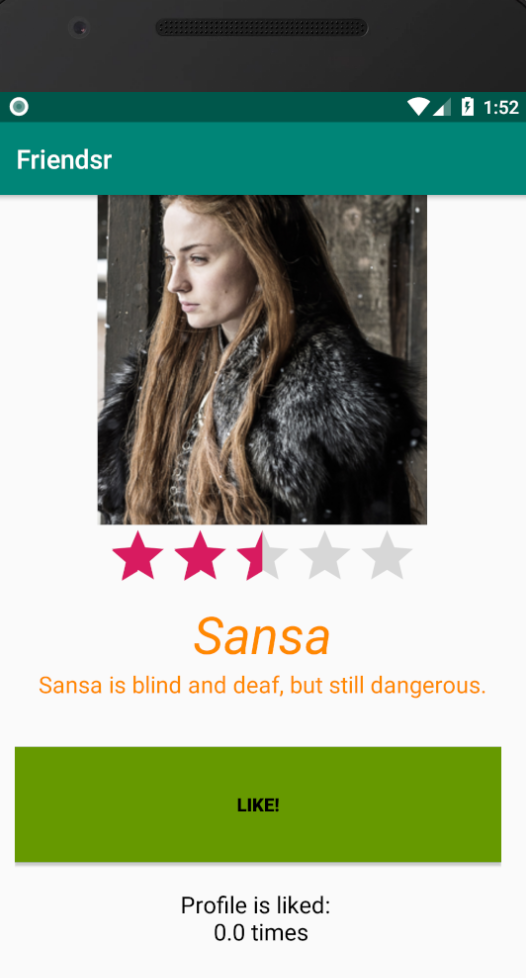
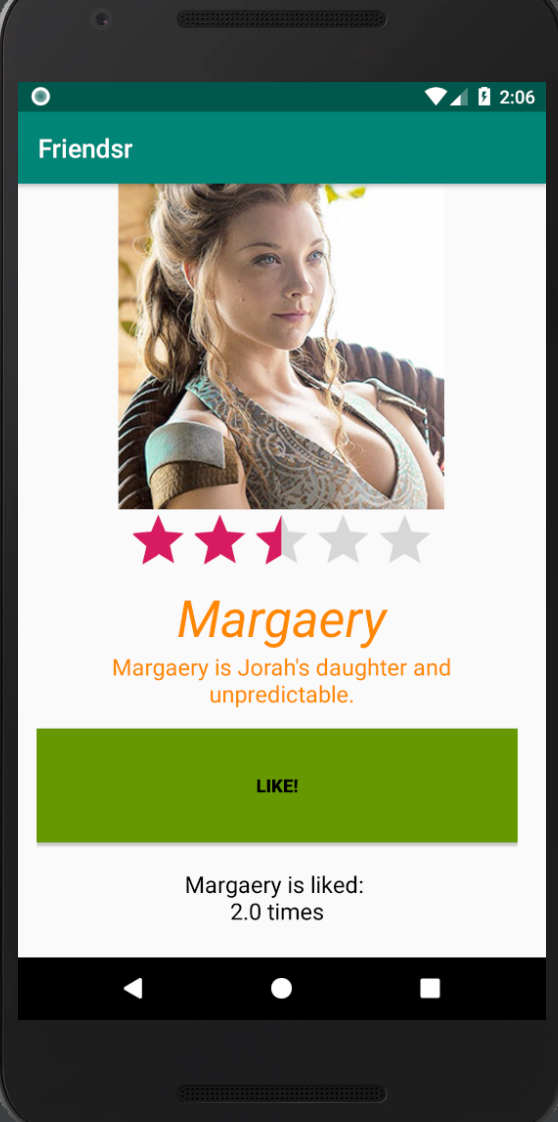
Third commmit

diff --git a/app/src/main/java/com/example/friendsr/ProfileActivity.java b/app/src/main/java/com/example/friendsr/ProfileActivity.java
@@ -65,12 +65,12 @@ public class ProfileActivity extends AppCompatActivity {
 
         if (likesStored != 0) {
             retrievedFriend.setProfileLiked(likesStored);
-            amountOfLikes.setText("Profile is liked: \n" + likesStored + " times");
+            amountOfLikes.setText(nameIndividual + " is liked: \n" + likesStored + " times");
             friendLikedButtonClicked = true;
         }
         else {
             retrievedFriend.setProfileLiked((float) 0);
-            amountOfLikes.setText("Profile is liked: \n 0.0 times");
+            amountOfLikes.setText(nameIndividual + " is liked: \n 0.0 times");
         }
 
         // Set name, bio, rating and picture of the user
@@ -100,7 +100,7 @@ public class ProfileActivity extends AppCompatActivity {
                 friendLiked++;
 
                 // Show amount of likes
-                amountOfLikes.setText("Profile is liked: \n" + friendLiked + " times");
+                amountOfLikes.setText(nameIndividual + " is liked: \n" + friendLiked + " times");
 
                 // Show the user that he liked the profile
                 Toast.makeText(getApplicationContext(), " You liked " + nameIndividual, Toast.LENGTH_SHORT).show();
@@ -127,7 +127,7 @@ public class ProfileActivity extends AppCompatActivity {
                 float totalLikes = likesStored + friendLiked;
 
                 // Show amount of likes
-                amountOfLikes.setText("Profile is liked: \n" + totalLikes + " times");
+                amountOfLikes.setText(nameIndividual + " is liked: \n" + totalLikes + " times");
 
                 // Show the user that he liked the profile
                 Toast.makeText(getApplicationContext(), " You liked " + nameIndividual, Toast.LENGTH_SHORT).show();
